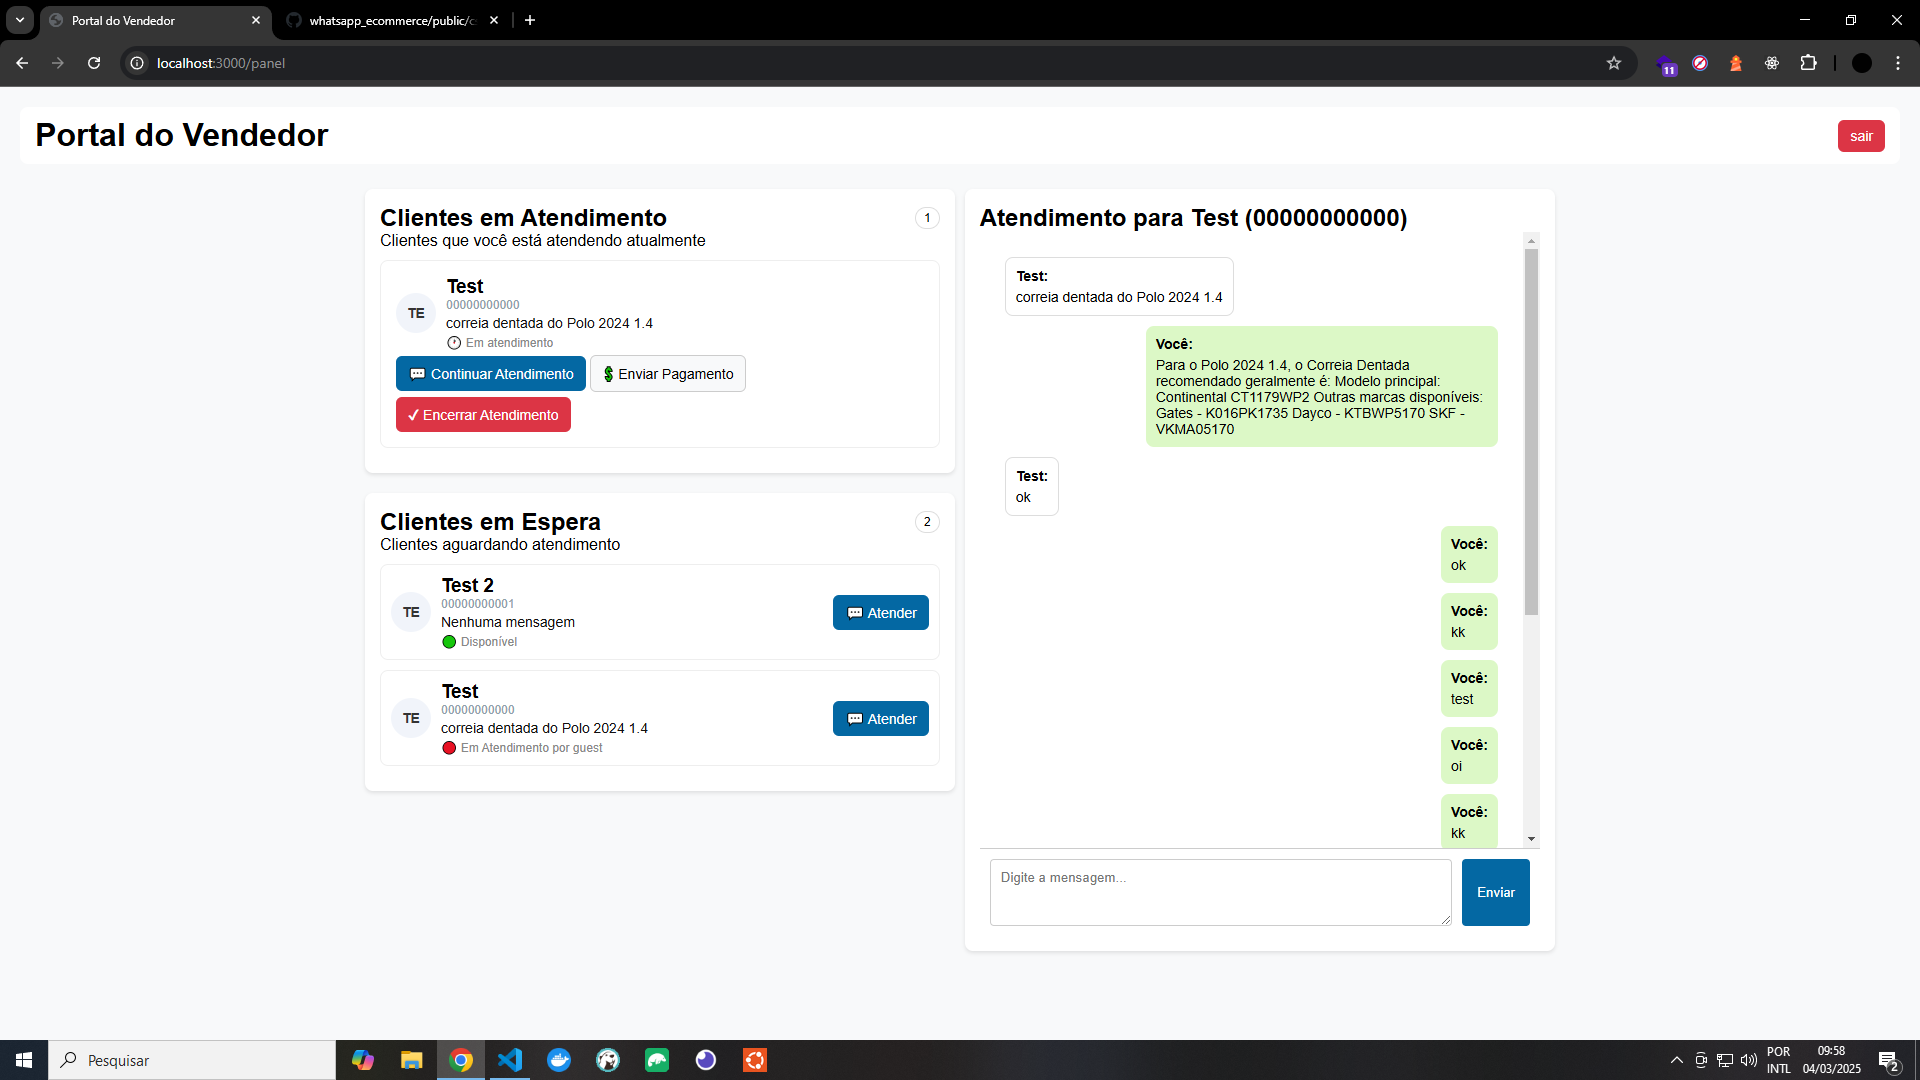
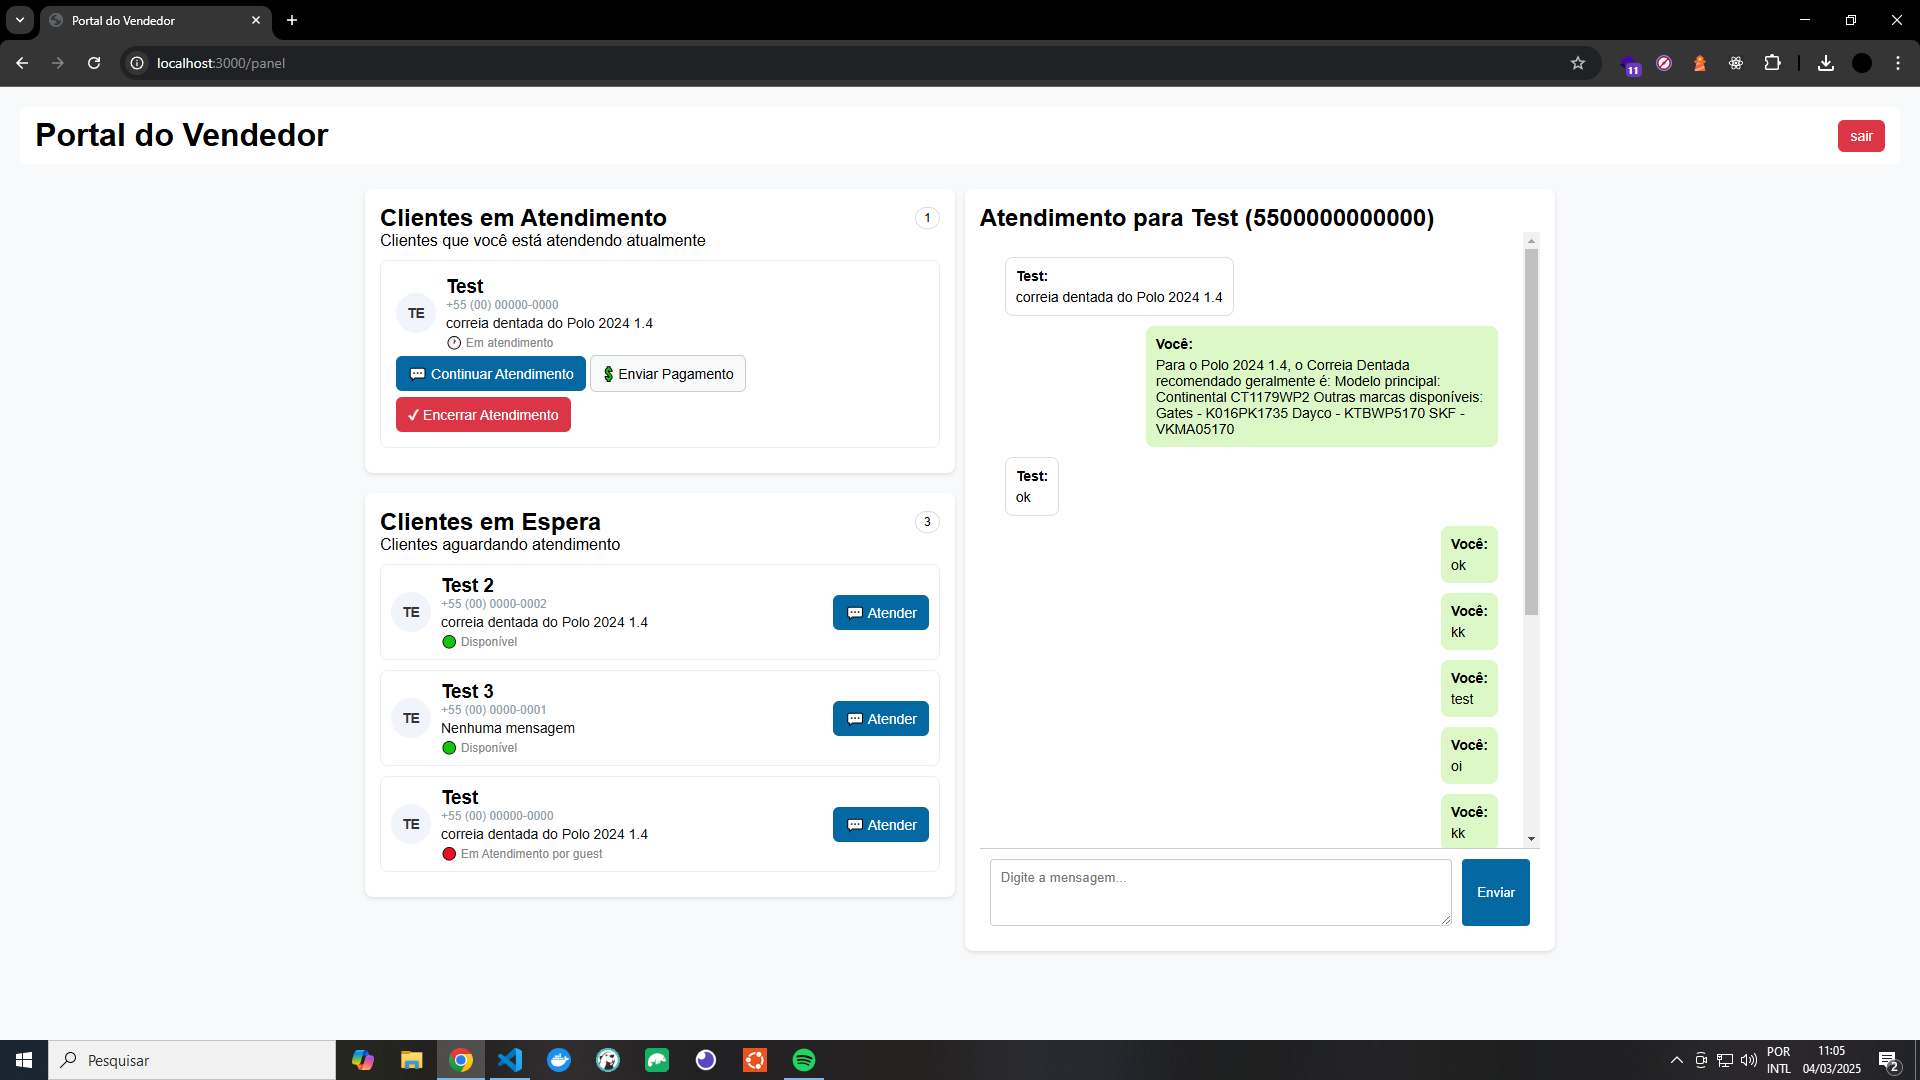
style: refactor colors and button

diff --git a/public/css/home.css b/public/css/home.css
@@ -27,8 +27,8 @@ body {
 /* Lado esquerdo (branding) */
 .left {
   flex: 1;
-  background-color: #005792;
-  color: white;
+  background-color: #0369a0;
+  color: #f8fafc;
   padding: 40px;
   display: flex;
   flex-direction: column;
@@ -43,6 +43,7 @@ body {
 .left p {
   font-size: 16px;
   margin-bottom: 15px;
+  color: #d6e6ef;
 }
 
 .feature {
@@ -64,7 +65,9 @@ body {
 .right {
   flex: 1;
   padding: 40px;
-  max-width: 600px;
+  display: flex;
+  justify-content: center;
+  align-items: center;
   display: flex;
   flex-direction: column;
   justify-content: center;
@@ -88,31 +91,49 @@ body {
   display: flex;
   justify-content: center;
   margin-bottom: 20px;
+  background-color: #f1f5f9;
+  padding: 4px;
+  border-radius: 5px;
+  width: 70%;
 }
 
 .tabs button {
   margin: 0 2px;
   flex: 1;
   padding: 10px;
-  background: #E0E0E0;
   border: none;
   cursor: pointer;
   font-size: 16px;
+  background: none;
+  color: #6474a8;
 }
 
 .tabs button.active {
-  background: #005792;
-  color: white;
+  background: #fff;
+  color: #222;
 }
 
 /* Formulário */
+#login-form, #signup-form {
+  display: flex;
+  justify-content: center;
+  align-items: center;
+  width: 70%;
+}
+
+@media (min-width: 1700px) {
+  .tabs, #login-form, #signup-form {
+    width: 50%;
+  }
+}
+
 form {
   display: flex;
   flex-direction: column;
+  width: 100%;
 }
 
 label {
-  font-weight: bold;
   margin-bottom: 5px;
 }
 
@@ -131,7 +152,7 @@ input {
 }
 
 button {
-  background-color: #005792;
+  background-color: #0369a0;
   color: white;
   border: none;
   padding: 10px;
@@ -143,6 +164,7 @@ button {
 
 button:hover {
   background-color: #004070;
+  color: white;
 }
 
 /* Responsividade */
@@ -163,5 +185,11 @@ button:hover {
 
   .tabs button {
     font-size: 14px;
+  }
+}
+
+@media (max-width: 860px) {
+  .tabs, #login-form, #signup-form {
+    width: 90%;
   }
 }

diff --git a/src/route.js b/src/route.js
@@ -87,7 +87,7 @@ v1Router.post("/webhook", async (req, res) => {
       step: "Inicio",
       inService: false,
       client: {
-        number: from,
+        number: String(from),
         name,
         seller: '',
         messages: new Array()
